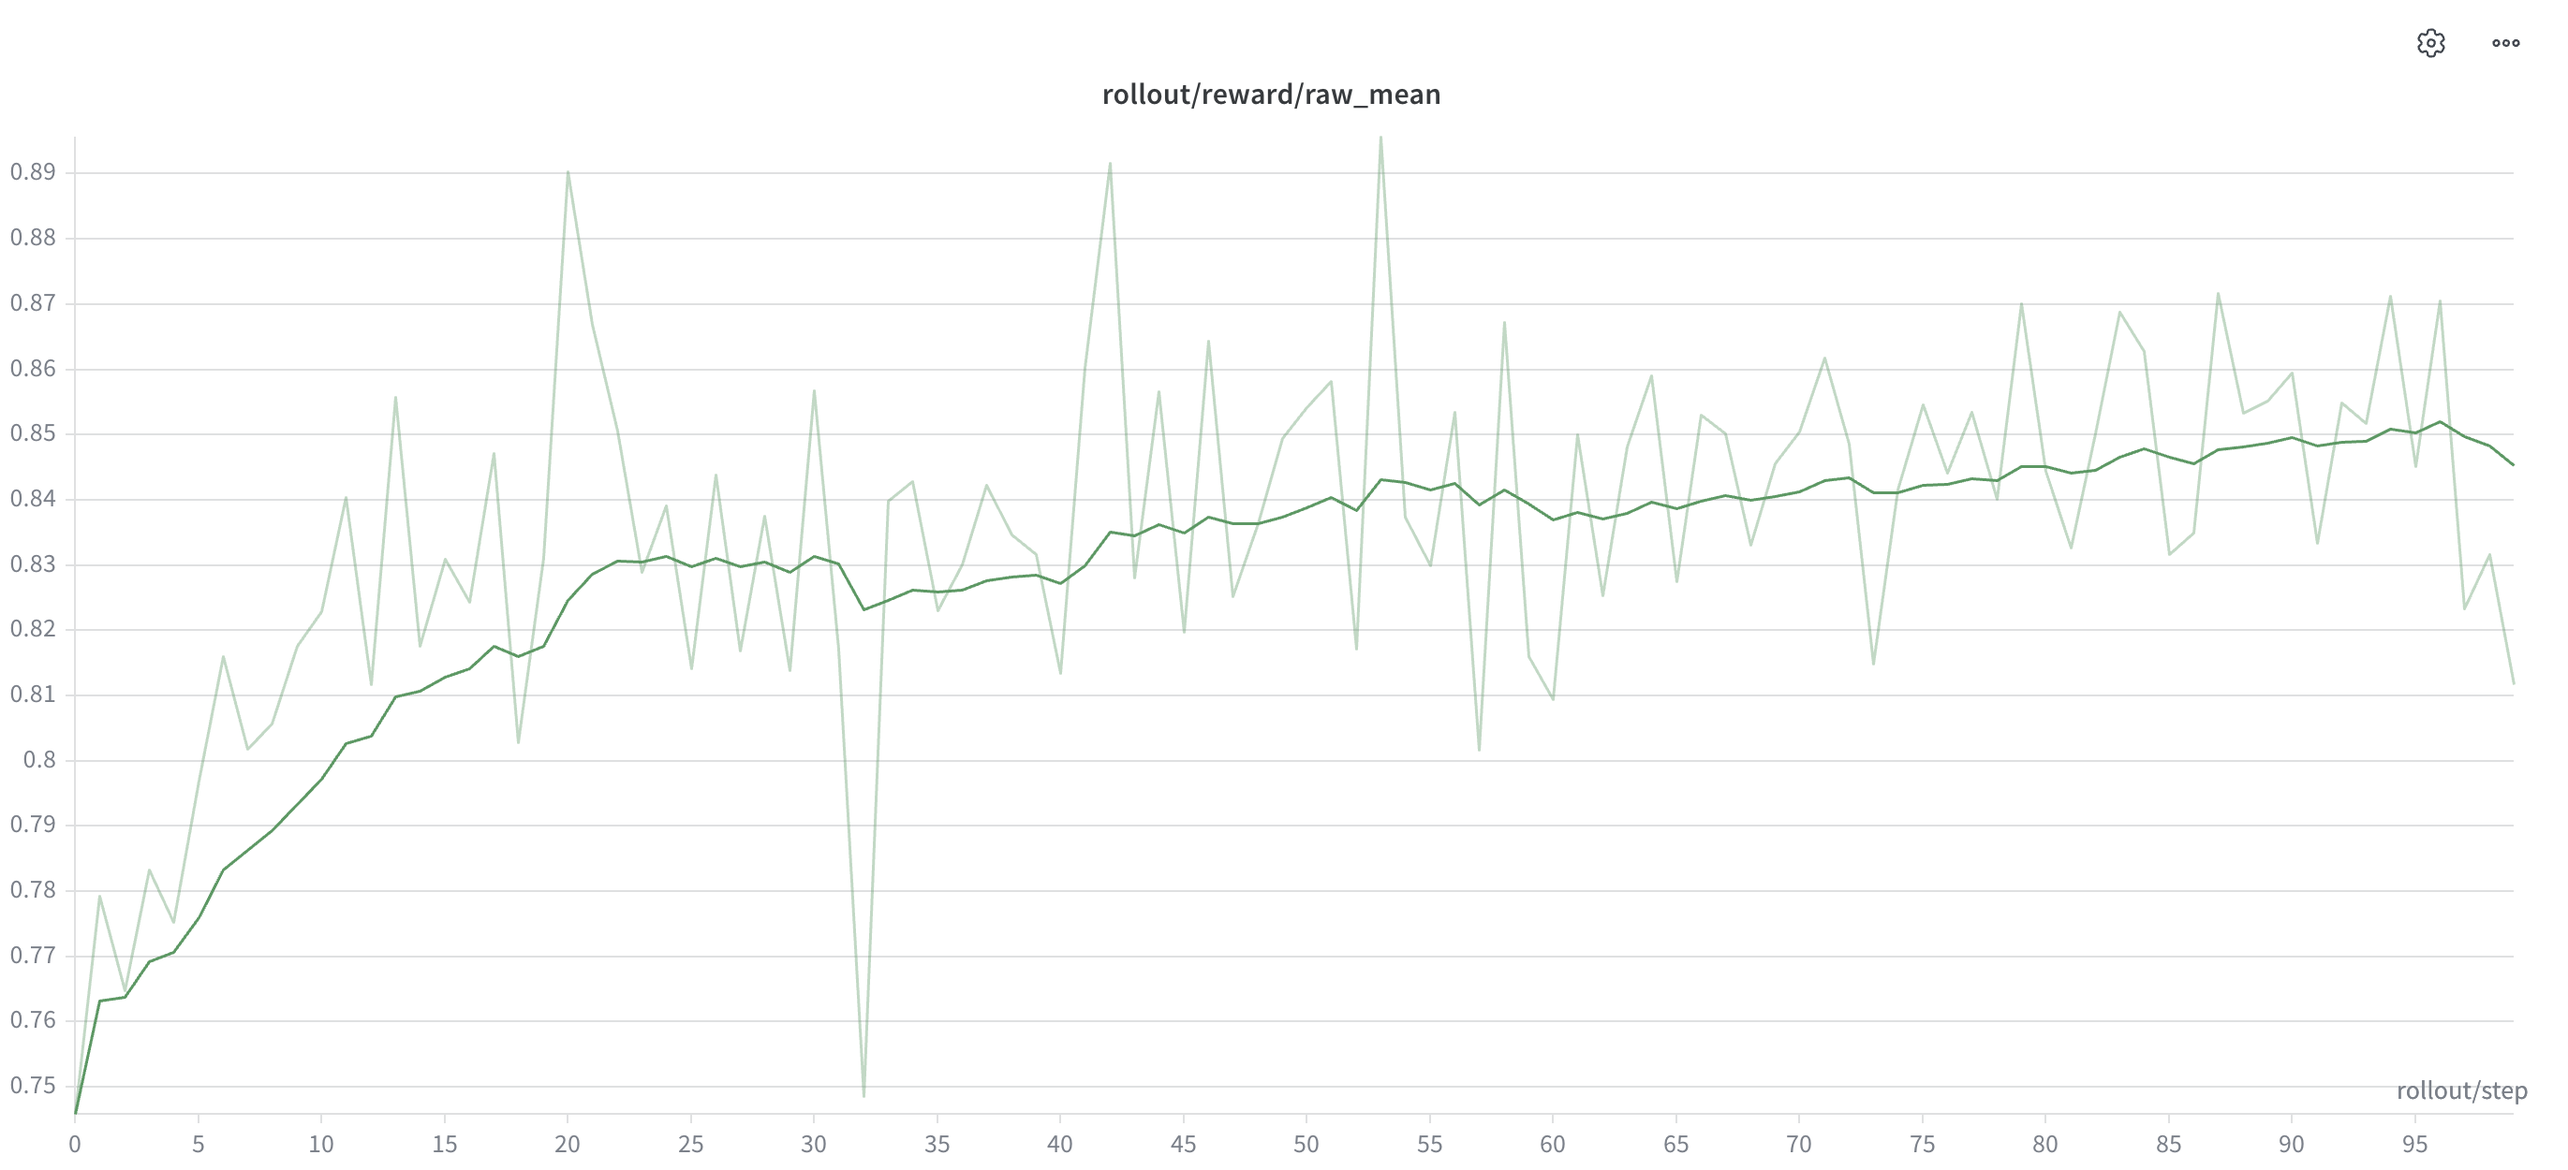
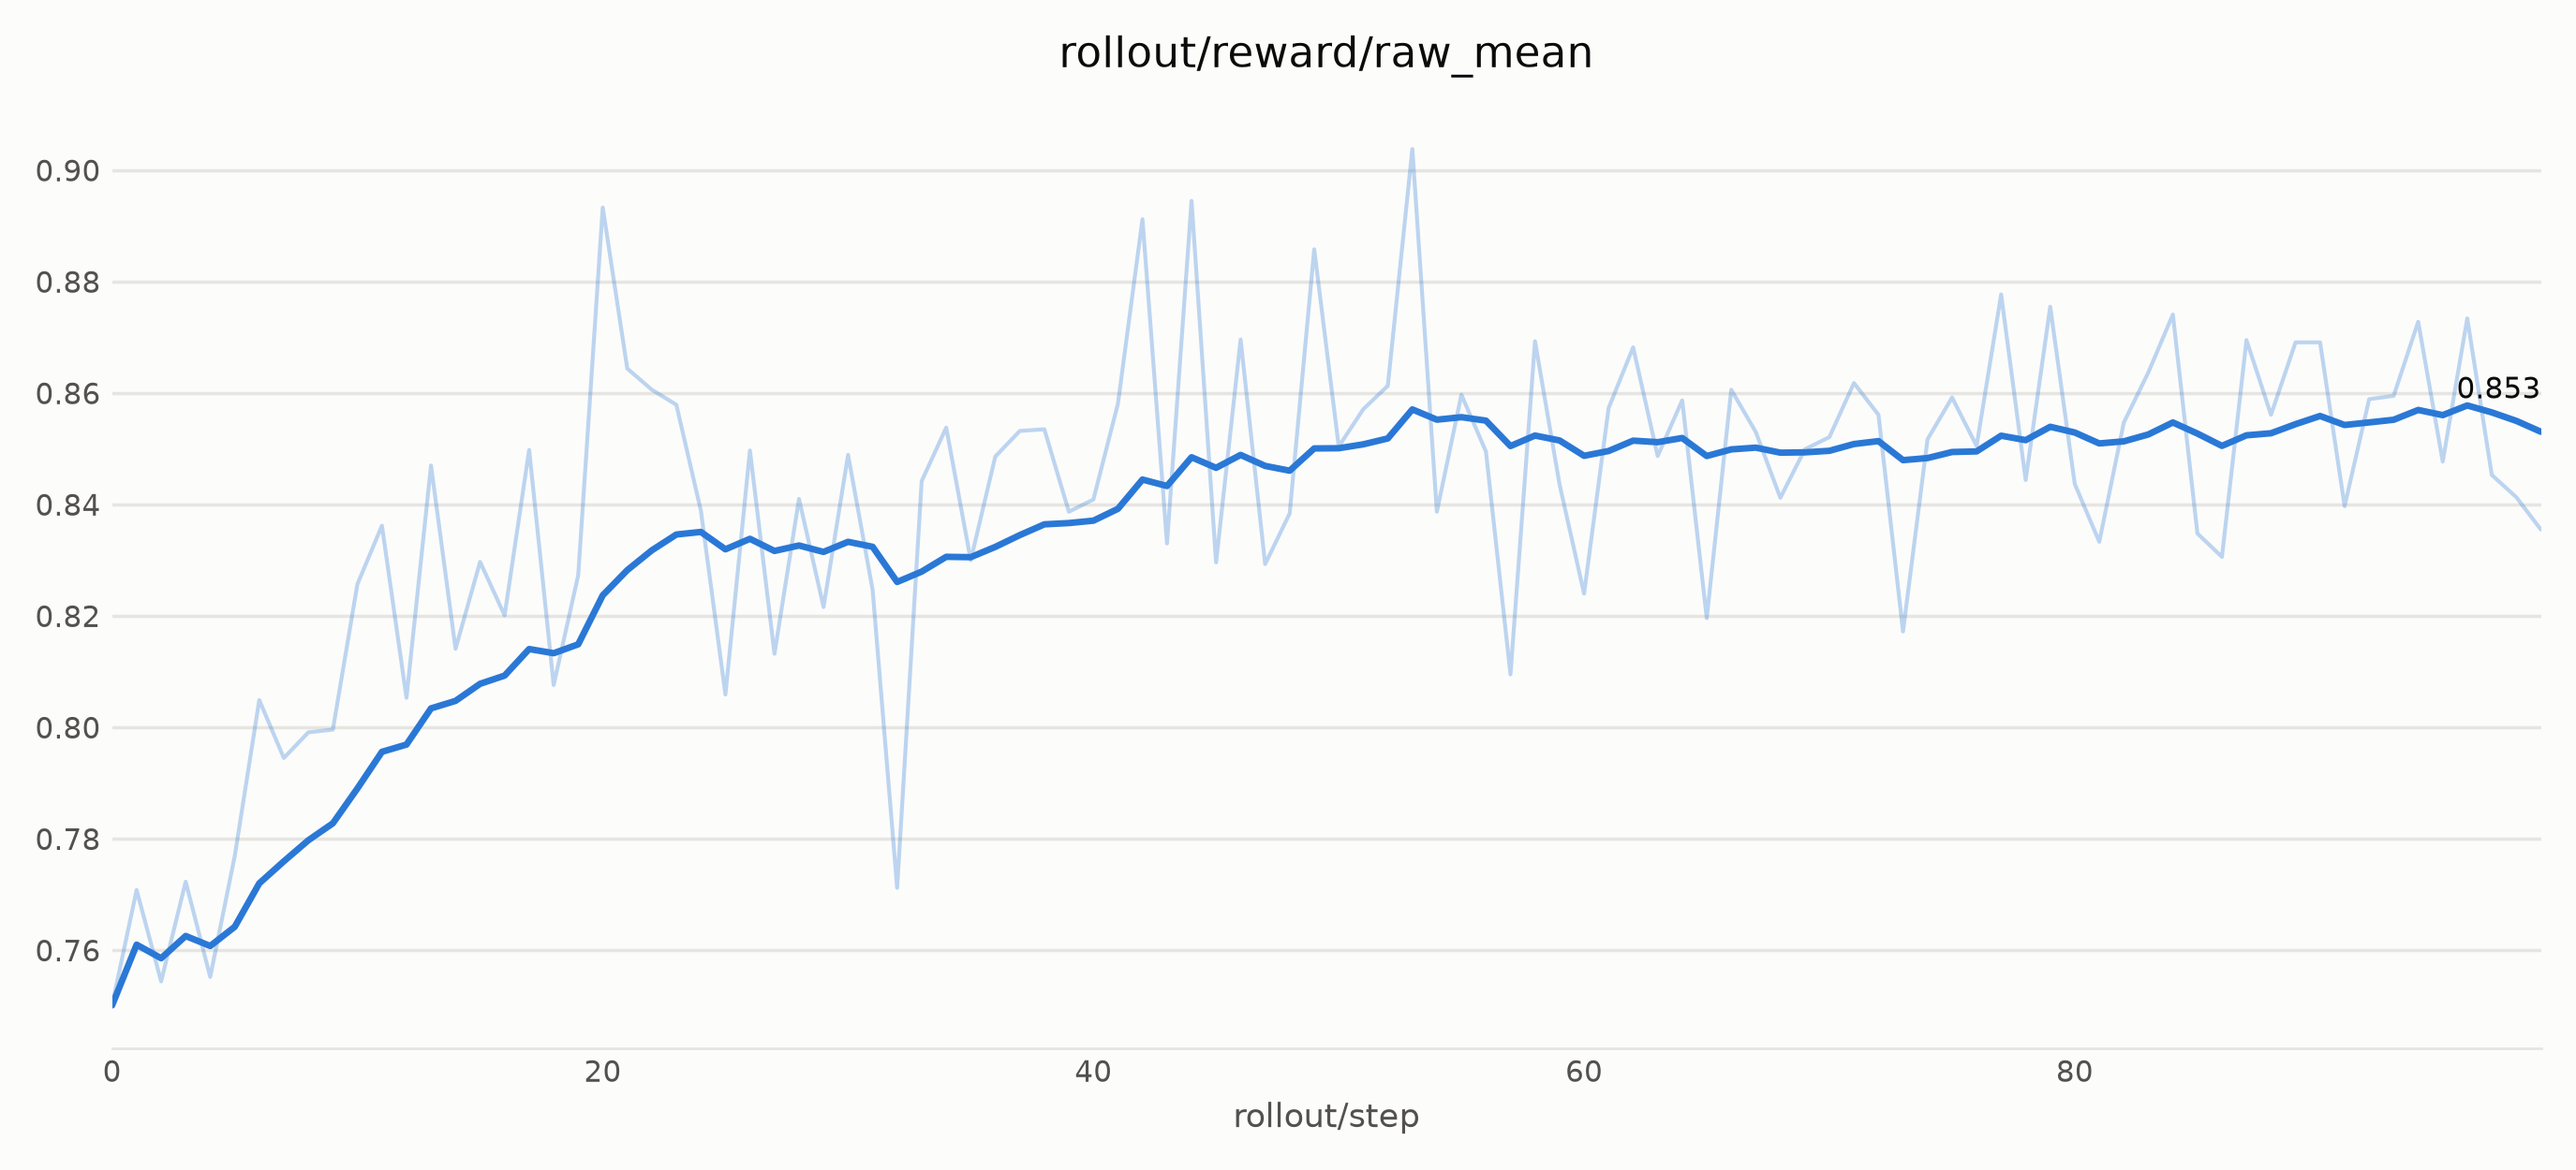
docs(sd3): refresh the DiffusionNFT PickScore curve on sglang-miles
The previous curve came from a sglang build whose SD3.5 CLIP text
encoders fell back to transformers' CLIPTextModel and dropped
text_projection (fixed by sgl-project/sglang#37616). The new curve is the
same recipe run on sgl-project/sglang#40786.

diff --git a/docs/models/sd3/sd3.md b/docs/models/sd3/sd3.md
@@ -317,9 +317,9 @@ Observed `rollout/reward/raw_mean` from one `scripts/run_diffusion_nft_sd3_picks
 
 ![DiffusionNFT PickScore raw reward](../../assets/images/sd3/nft-pickscore-raw-reward.png)
 
-Online runs: wandb project **`miles-diffusion-nft`**. That run observed held-out
-**`eval/pickscore_test` ≈ 0.78** with `--eval-interval 30` and 50 denoise steps at eval time; this value is not asserted
-by the E2E fixture.
+Online run: [wandb](https://wandb.ai/radixarkai/miles-diffusion-CIs/runs/7nnabqkr). That run observed held-out
+**`eval/pickscore_test` 0.850 / 0.859 / 0.863** at rollouts 29 / 59 / 89 with `--eval-interval 30` and 50 denoise steps
+at eval time; these values are not asserted by the E2E fixture.
 
 ## 10. Pairs well with
 
